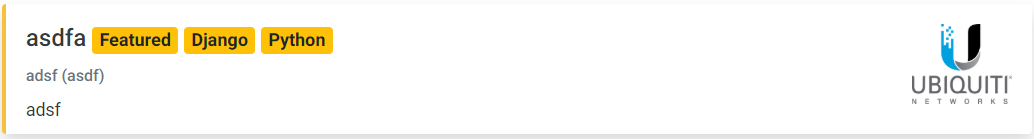
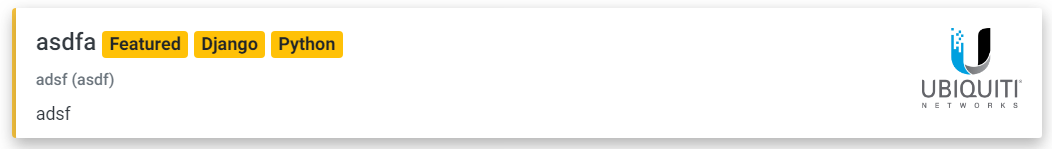
text trauncate per title

Changed region(s): [[0.0, 0.0288, 1.0, 0.9784]]

diff --git a/jobs/templates/jobs/create_jobs.html b/jobs/templates/jobs/create_jobs.html
@@ -69,17 +69,15 @@
 										<input type="text" name="company_name" class="form-control form-control-lg col-md-12" required>
 										<p class="text-muted">Enter your company or organization’s name.</p>
 										<h6 class="card-title mt-3">Company Description<span style="color:red;">*</span></h6>
-										<textarea class="form-control form-control-lg col-md-12" name="company_description" rows="6" required></textarea>
-										<div class="card-title mt-3 form-row">
-											<div class="form-group col-md-6">
-												<h6 for="card-title mt-3">Company Logo<span style="color:red;">*</span></h6>
-												<input type="file" name="logo" class="form-control form-control-lg col-md-12" required>
-												<p class="text-muted">It’s highly recommended to upload 250x150</p>
-											</div>
-											<div class="form-group col-md-6">
-												<h6>Tagline</h6>
-												<input type="text" name="tagline" class="form-control form-control-lg">
-											</div>
+										<textarea class="form-control form-control-lg col-md-12 mb-3" name="company_description" rows="6" required></textarea>
+										<h6 for="card-title">Company Logo<span style="color:red;">*</span></h6>
+										<div class="form-group custom-file">
+											<input type="file" name="logo" class="custom-file-input" id="customFile">
+											<label class="custom-file-label form-control form-control-lg" for="customFile" style="background-color: #f6f6f6;">Upload Logo</label>
+										</div>
+										<div class="form-group mt-3">
+											<h6>Tagline</h6>
+											<input type="text" name="tagline" class="form-control form-control-lg">
 										</div>
 										<div class="card-title mt-3 form-row">
 											<div class="form-group col-md-6">

diff --git a/jobs/templates/jobs/jobs.html b/jobs/templates/jobs/jobs.html
@@ -43,7 +43,7 @@
 				<div class="float-right">
 					<img src="/media/{{job.get_job_company}}" alt="Girl in a jacket" width="100" height="80">
 				</div>
-				<h4 class="card-title nav-item ">{{job.title}}
+				<h4 class="card-title nav-item text-truncate" style="max-width: 700px;" >{{job.title}}
 					<span class="badge badge-warning"> Featured </span>
 					<span class="badge badge-warning"> Django </span>
 					<span class="badge badge-warning"> Python </span>
@@ -75,7 +75,7 @@
 						<div class="float-right">
 							<img src="/media/{{job.get_job_company}}" alt="Girl in a jacket" width="100" height="80">
 						</div>
-						<h4 class="card-title nav-item ">{{job.title}}
+						<h4 class="card-title nav-item text-truncate" style="max-width: 700px;" >{{job.title}}
 							<span class="badge badge-primary"> Devops </span>
 							<span class="badge badge-primary"> Django </span>
 							<span class="badge badge-primary"> Python </span>
